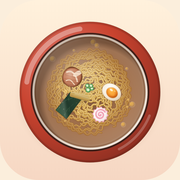
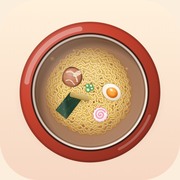
Yemek çizimi cilası: yoğun parlak erişte, berrak çorba, hafif sos; PWA ikonları
Claude-Session: https://claude.ai/code/session_01QjGfb3Ys2Xq884SfLa2Bj2

Changed region(s): [[0.25, 0.2222, 0.75, 0.75]]

diff --git a/src/art/food.ts b/src/art/food.ts
@@ -1028,16 +1028,16 @@ interface NoodleCfg {
 
 const NOODLES: Record<string, NoodleCfg> = {
   ramen: {
-    density: 46,
-    width: 3.3,
+    density: 95,
+    width: 3.4,
     wave: 0.85,
     wavelen: 5.2,
     rhoMin: 0.3,
     rhoMax: 0.8,
     len: [1.2, 2.4],
     col: {
-      raw: '#efe3bc',
-      dente: '#f4d98c',
+      raw: '#f3ecd3',
+      dente: '#f5d98a',
       perfect: '#f3cb62',
       soft: '#f1d894',
       burnt: '#d9d0ad',
@@ -1046,15 +1046,15 @@ const NOODLES: Record<string, NoodleCfg> = {
     alpha: 1,
   },
   udon: {
-    density: 30,
-    width: 7.4,
+    density: 34,
+    width: 8.0,
     wave: 0.22,
     wavelen: 6,
     rhoMin: 0.3,
     rhoMax: 0.8,
     len: [1.4, 2.6],
     col: {
-      raw: '#f0e9dc',
+      raw: '#ece5d8',
       dente: '#f8f3e8',
       perfect: '#fbf6ec',
       soft: '#f6f1e6',
@@ -1064,7 +1064,7 @@ const NOODLES: Record<string, NoodleCfg> = {
     alpha: 1,
   },
   soba: {
-    density: 70,
+    density: 130,
     width: 2.9,
     wave: 0.15,
     wavelen: 8,
@@ -1072,7 +1072,7 @@ const NOODLES: Record<string, NoodleCfg> = {
     rhoMax: 1.0,
     len: [1.0, 1.9],
     col: {
-      raw: '#bba58d',
+      raw: '#c7b49f',
       dente: '#ad8c6e',
       perfect: '#a88466',
       soft: '#b29176',
@@ -1082,7 +1082,7 @@ const NOODLES: Record<string, NoodleCfg> = {
     alpha: 1,
   },
   pirinc: {
-    density: 80,
+    density: 150,
     width: 2.0,
     wave: 0.5,
     wavelen: 6,
@@ -1103,16 +1103,16 @@ const NOODLES: Record<string, NoodleCfg> = {
 
 const THICK_MUL: Record<Thick, number> = { ince: 0.72, orta: 1, kalin: 1.45 };
 const COOK_W: Record<CookState, number> = {
-  raw: 0.9,
+  raw: 0.82,
   dente: 0.97,
-  perfect: 1.05,
+  perfect: 1.08,
   soft: 1.18,
   burnt: 1.32,
 };
 const COOK_GLOSS: Record<CookState, number> = {
-  raw: 0.12,
-  dente: 0.4,
-  perfect: 0.6,
+  raw: 0.0,
+  dente: 0.45,
+  perfect: 0.7,
   soft: 0.35,
   burnt: 0.12,
 };
@@ -1160,7 +1160,7 @@ function renderNoodles(
   const w = cfg.width * THICK_MUL[thick] * COOK_W[cook] * clamp(r / 112, 0.6, 1.6);
   const n = Math.round(
     cfg.density *
-      clamp(Math.pow(r / 112, 1.6), 0.25, 1.6) *
+      clamp(Math.pow(r / 112, 1.3), 0.25, 1.6) *
       (thick === 'kalin' ? 0.72 : thick === 'ince' ? 1.3 : 1)
   );
   const body = cfg.col[cook];
@@ -1179,8 +1179,8 @@ function renderNoodles(
   c.fill();
 
   const strands: [number, number][][] = [];
-  const amp = cfg.wave * w * (sharp ? 0.8 : limp ? 0.6 : 1);
-  const wl = cfg.wavelen * w * (sharp ? 1.3 : 1);
+  const amp = cfg.wave * w * (sharp ? 1.1 : limp ? 0.6 : 1);
+  const wl = cfg.wavelen * w * (sharp ? 1.1 : 1);
   const spin = rand() < 0.5 ? 1 : -1;
   for (let i = 0; i < n; i++) {
     let rho = r * lerp(cfg.rhoMin, cfg.rhoMax, rand());
@@ -1198,7 +1198,7 @@ function renderNoodles(
     const th0 = rand() * TAU;
     const L = r * lerp(cfg.len[0], cfg.len[1], rand());
     const span = Math.min(L / rho, TAU * 0.9) * side;
-    const steps = Math.max(8, Math.ceil(L / (sharp ? 5 : 3)));
+    const steps = Math.max(8, Math.ceil(L / (sharp ? 6 : 3)));
     const ph0 = rand() * TAU;
     const pts: [number, number][] = [];
     for (let s = 0; s <= steps; s++) {
@@ -1239,14 +1239,21 @@ function renderNoodles(
     c.lineWidth = w;
     c.strokeStyle = body;
     c.stroke();
-    // highlight line, offset up-left
-    c.save();
-    c.translate(-w * 0.16, -w * 0.22);
-    path(pts, !sharp);
-    c.lineWidth = Math.max(0.8, w * 0.28);
-    c.strokeStyle = hiCol;
-    c.stroke();
-    c.restore();
+    if (glossA > 0) {
+      // highlight line, offset up-left
+      c.save();
+      c.translate(-w * 0.16, -w * 0.22);
+      path(pts, !sharp);
+      c.lineWidth = Math.max(0.8, w * 0.3);
+      c.strokeStyle = hiCol;
+      c.stroke();
+      if (cook === 'perfect') {
+        c.lineWidth = Math.max(0.5, w * 0.12);
+        c.strokeStyle = 'rgba(255,255,255,0.55)';
+        c.stroke();
+      }
+      c.restore();
+    }
   }
   c.globalAlpha = 1;
 
@@ -1255,7 +1262,12 @@ function renderNoodles(
     c.save();
     circle(c, 0, 0, r);
     c.clip();
-    speckle(c, -r, -r, r * 2, r * 2, seed + 3, Math.round(r * 2.5), 'rgba(255,255,255,0.55)');
+    // matte wash + flour dusting
+    c.globalCompositeOperation = 'source-atop';
+    c.fillStyle = 'rgba(245,240,228,0.28)';
+    c.fillRect(-r, -r, r * 2, r * 2);
+    c.globalCompositeOperation = 'source-over';
+    speckle(c, -r, -r, r * 2, r * 2, seed + 3, Math.round(r * 3), 'rgba(255,255,255,0.7)');
     c.restore();
   }
   if (cook === 'burnt') {
@@ -1313,9 +1325,9 @@ function noodleFloatSprite(
       c.drawImage(base, -box / 2, -box / 2, box, box);
       c.globalCompositeOperation = 'destination-in';
       c.fillStyle = radial(c, 0, 0, 0, R, [
-        [0, 'rgba(0,0,0,0.9)'],
-        [0.45, 'rgba(0,0,0,0.85)'],
-        [0.8, 'rgba(0,0,0,0.35)'],
+        [0, 'rgba(0,0,0,1)'],
+        [0.6, 'rgba(0,0,0,0.95)'],
+        [0.85, 'rgba(0,0,0,0.5)'],
         [1, 'rgba(0,0,0,0)'],
       ]);
       c.fillRect(-box / 2, -box / 2, box, box);
@@ -1354,7 +1366,7 @@ interface BrothCfg {
 }
 
 const BROTHS: Record<string, BrothCfg> = {
-  shoyu: { col: '#8c4a1c', alpha: 0.72, creamy: 0, oil: '#f5bd55' },
+  shoyu: { col: '#8a461a', alpha: 0.68, creamy: 0, oil: '#f5bd55' },
   miso: { col: '#d19546', alpha: 0.92, creamy: 0.65 },
   tavuk: { col: '#e2ae57', alpha: 0.66, creamy: 0.05, oil: '#fbe08a' },
   acili: { col: '#c9412a', alpha: 0.88, creamy: 0.2, oil: '#f0712f', chilli: true, sesame: true },
@@ -1440,10 +1452,10 @@ function renderLiquid(c: Ctx, broth: string, R: number, alphaMul: number) {
     }
   }
   if (cfg.oil) {
-    for (let i = 0; i < 16; i++) {
+    for (let i = 0; i < 10; i++) {
       const ang = rand() * TAU;
       const d = Math.sqrt(rand()) * R * 0.92;
-      const rr = R * (0.015 + rand() * 0.035);
+      const rr = R * (0.012 + rand() * 0.022);
       const x = Math.cos(ang) * d;
       const y = Math.sin(ang) * d;
       circle(c, x, y, rr);
@@ -1499,7 +1511,7 @@ function applySauce(c: Ctx, sauce: SauceOpt, R: number) {
   const col = SAUCES[sauce.id] ?? '#5a2c12';
   c.save();
   c.globalCompositeOperation = 'source-atop';
-  c.fillStyle = rgba(col, 0.22 + 0.3 * sauce.amt);
+  c.fillStyle = rgba(col, 0.12 + 0.2 * sauce.amt);
   c.fillRect(-R - 6, -R - 6, R * 2 + 12, R * 2 + 12);
   // darker pooling near centre
   c.fillStyle = radial(c, 0, 0, 0, R, [
@@ -1510,7 +1522,7 @@ function applySauce(c: Ctx, sauce: SauceOpt, R: number) {
   // glaze shine: diagonal highlight streaks
   c.globalCompositeOperation = 'source-atop';
   c.lineCap = 'round';
-  c.strokeStyle = 'rgba(255,255,255,0.35)';
+  c.strokeStyle = 'rgba(255,255,255,0.45)';
   c.lineWidth = R * 0.04;
   const rand = rng(sauce.id.length * 11);
   for (let i = 0; i < 14; i++) {
@@ -1863,7 +1875,7 @@ export function drawBowlTop(
       const fs = noodleFloatSprite(b.noodle, b.thick, cook, noodleR, 11);
       const box = Math.round(noodleR) * 2 + 12;
       c.save();
-      c.globalAlpha = cook === 'burnt' ? 0.55 : 0.9;
+      c.globalAlpha = cook === 'burnt' ? 0.6 : 1;
       c.drawImage(fs, -box / 2, -box / 2, box, box);
       c.restore();
     }
